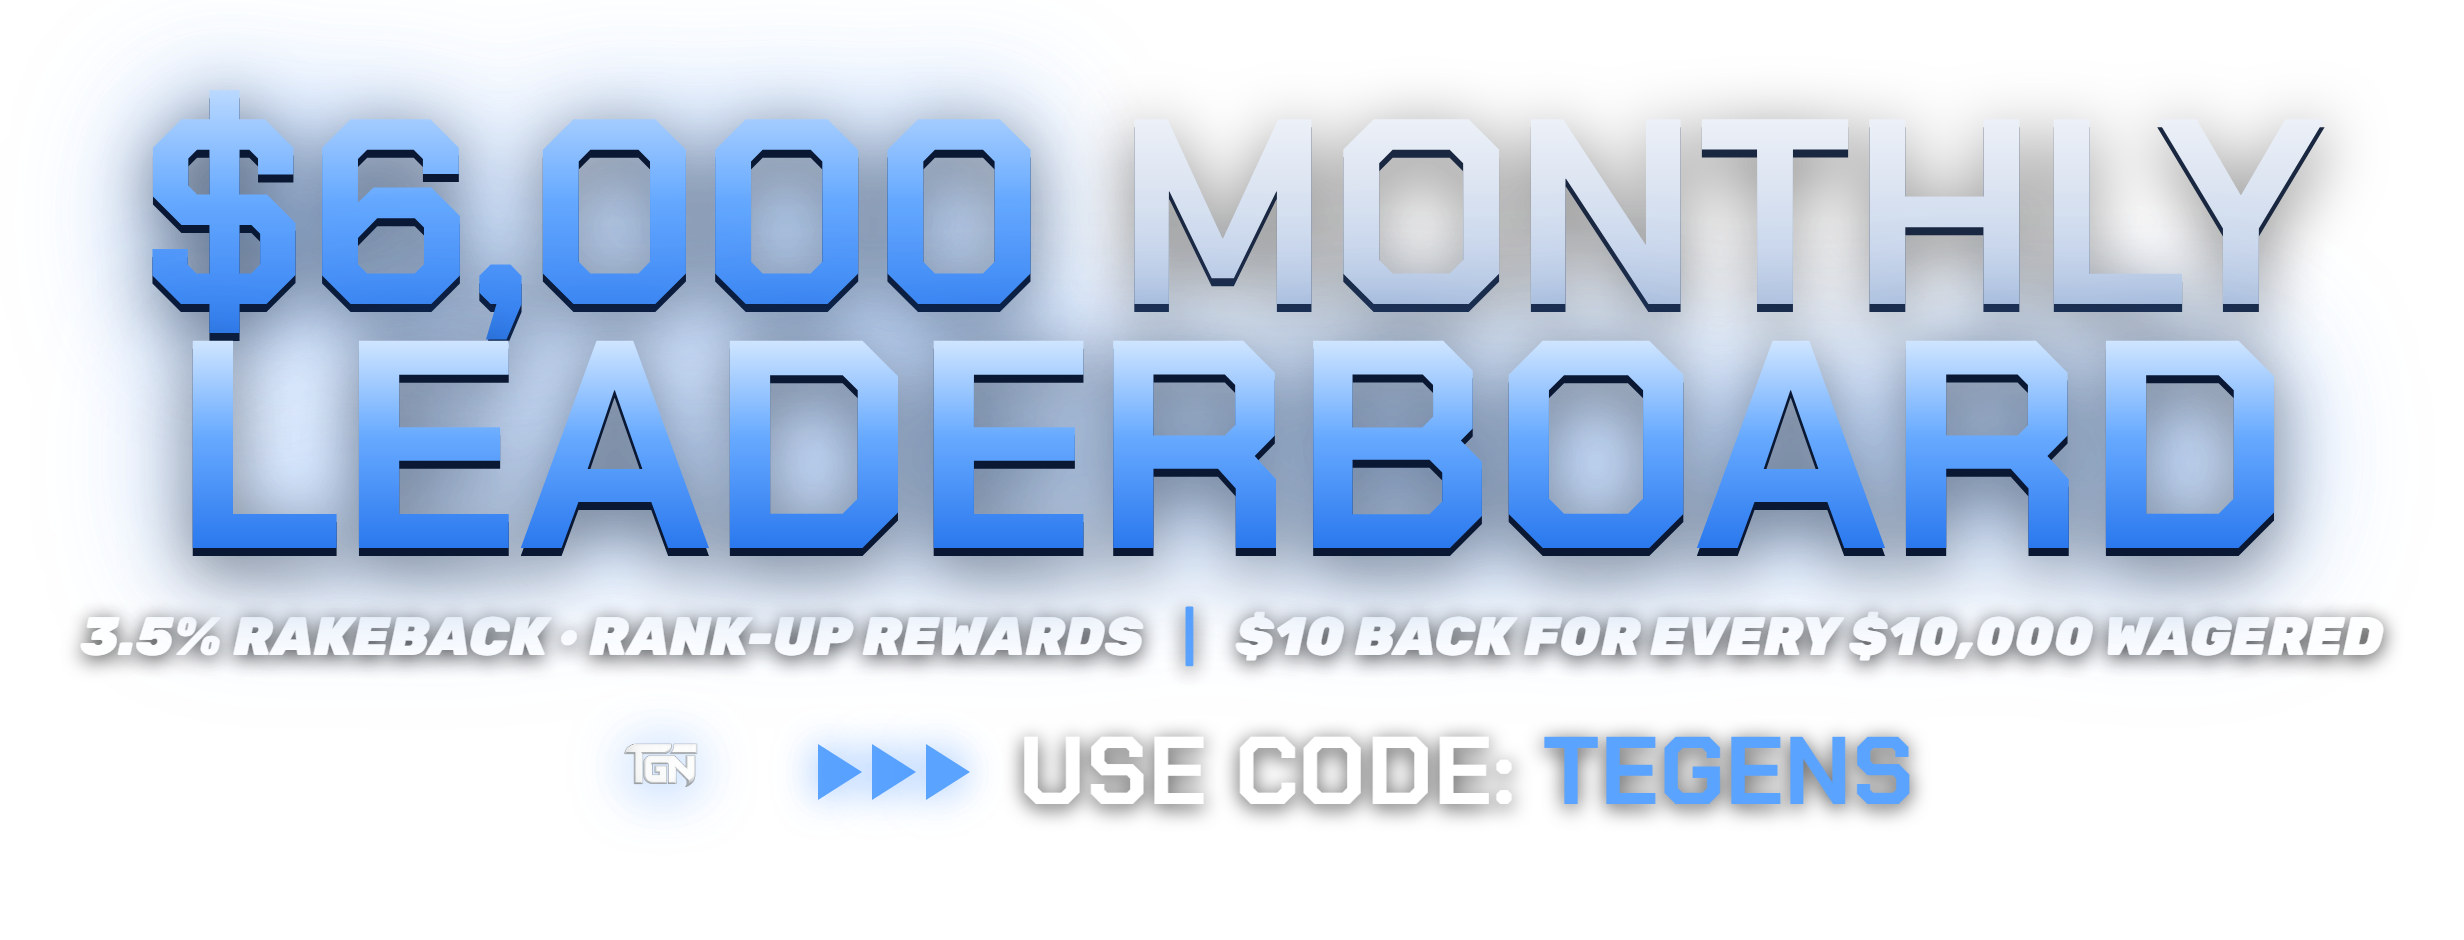
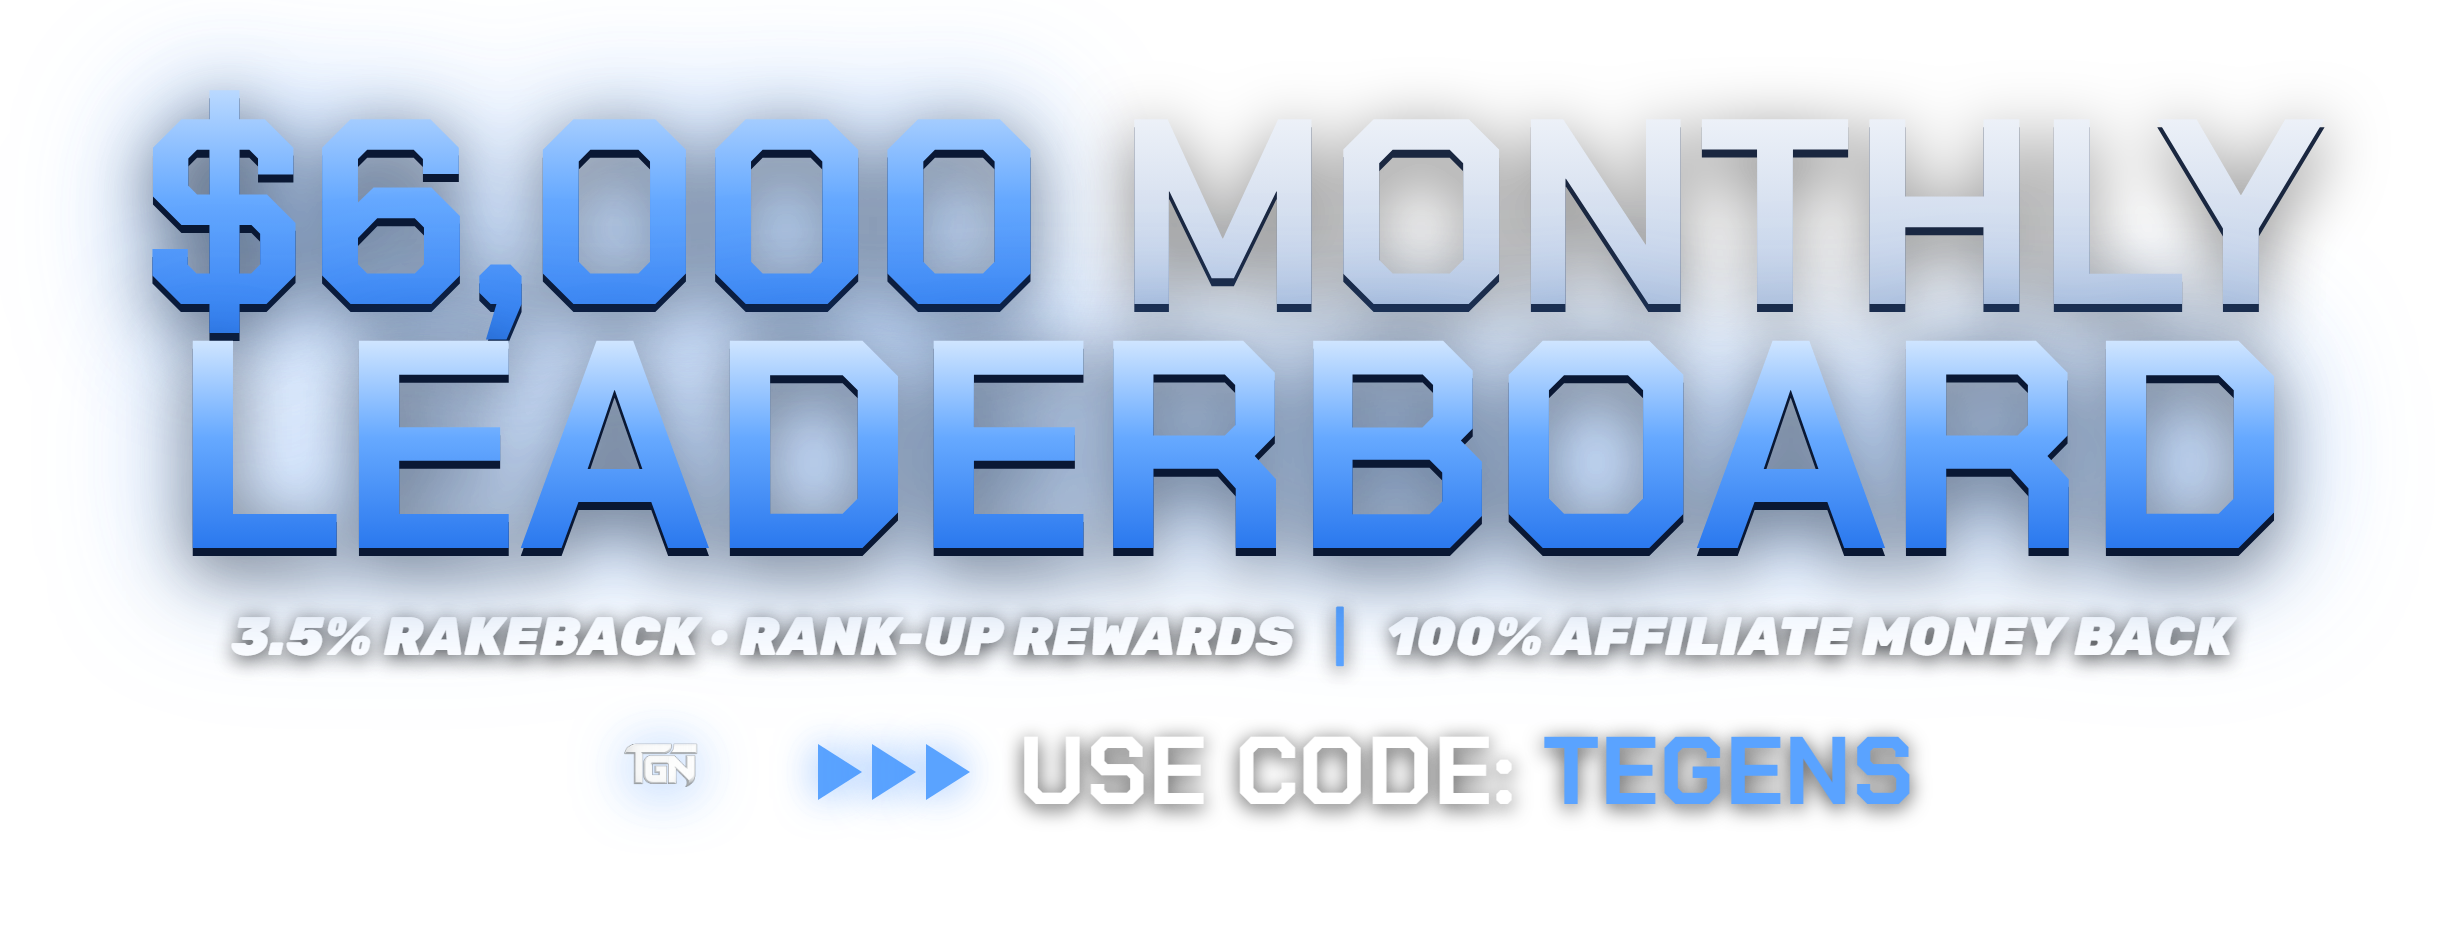
Update tagline to "100% Affiliate Money Back" on leaderboard text graphic

Changed region(s): [[0.0312, 0.6479, 0.9688, 0.7096]]

diff --git a/marketing/tegens-leaderboard-text.html b/marketing/tegens-leaderboard-text.html
@@ -42,7 +42,7 @@
       <span class="row row1"><span class="gradb">$6,000</span> <span class="silv">MONTHLY</span></span>
       <span class="row row2 gradb">LEADERBOARD</span>
     </div>
-    <div class="sub">3.5% RAKEBACK &middot; RANK-UP REWARDS <span class="bar">|</span> $10 BACK FOR EVERY $10,000 WAGERED</div>
+    <div class="sub">3.5% RAKEBACK &middot; RANK-UP REWARDS <span class="bar">|</span> 100% AFFILIATE MONEY BACK</div>
     <div class="foot">
       <img class="flogo" src="https://raw.githubusercontent.com/aspct49-dev/tegens/main/public/TGN.webp" alt="TEGENS" />
       <span class="arrows"><i></i><i></i><i></i></span>